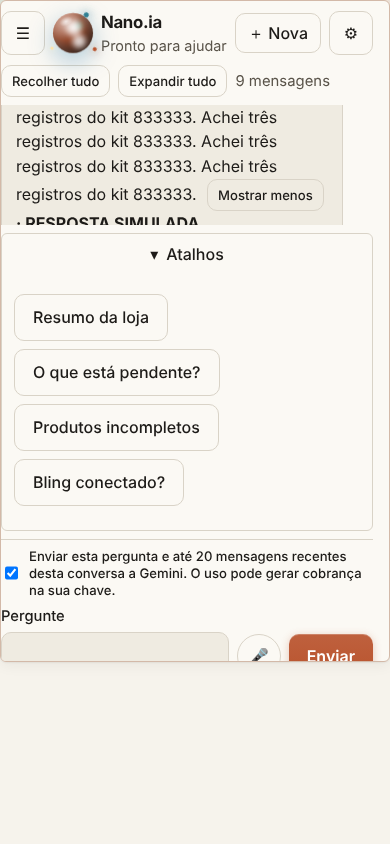
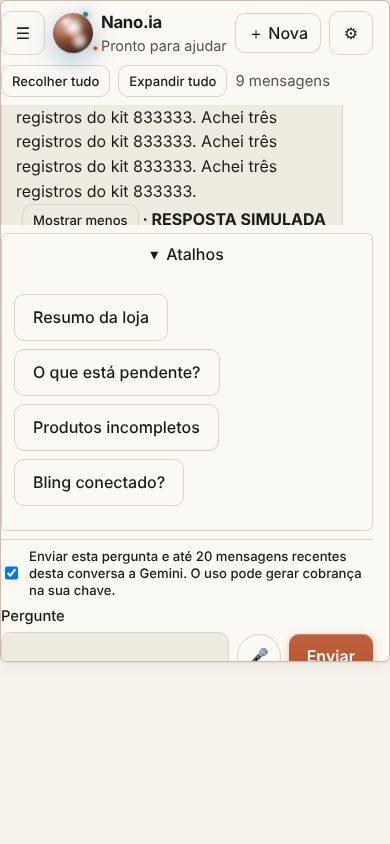
fix(painel): respostas do Nano.ia renderizam markdown (negrito, italico, listas) em vez de asteriscos crus
Claude-Session: https://claude.ai/code/session_01VMHvTDaEn6HYb7ZmrJorve

Changed region(s): [[0.0308, 0.2156, 0.8308, 0.2773]]

diff --git a/painel/src/componentes/MensagemRetratil.tsx b/painel/src/componentes/MensagemRetratil.tsx
@@ -1,4 +1,5 @@
 import { useState } from "react";
+import { Markdown } from "./Markdown.tsx";
 import { EvidenciaProduto, type EvidenciaBusca } from "./EvidenciaProduto.tsx";
 import { comecoDaLonga, ehLonga, resumoEvidencia, resumoLinha } from "../lib/retratil.ts";
 
@@ -19,7 +20,7 @@ export function MensagemRetratil({ m, recolhida, onAlternar }: { m: MensagemChat
   return (
     <div className={`bolha ${m.de}`}>
       <div className="bolha-topo"><b>{quem}</b><button type="button" className="mini sec" aria-expanded onClick={onAlternar} aria-label="Recolher esta mensagem">Recolher</button></div>
-      {longa ? comecoDaLonga(m.texto) : m.texto}
+      {m.de === "ia" ? <Markdown texto={longa ? comecoDaLonga(m.texto) : m.texto} /> : (longa ? comecoDaLonga(m.texto) : m.texto)}
       {ehLonga(m.texto) && <button type="button" className="mini sec mais" onClick={() => setCompleta((v) => !v)}>{completa ? "Mostrar menos" : "Mostrar mais"}</button>}
       {m.simulado === true && <strong> · RESPOSTA SIMULADA</strong>}
       {m.evidencias?.map((ev, n) => (
